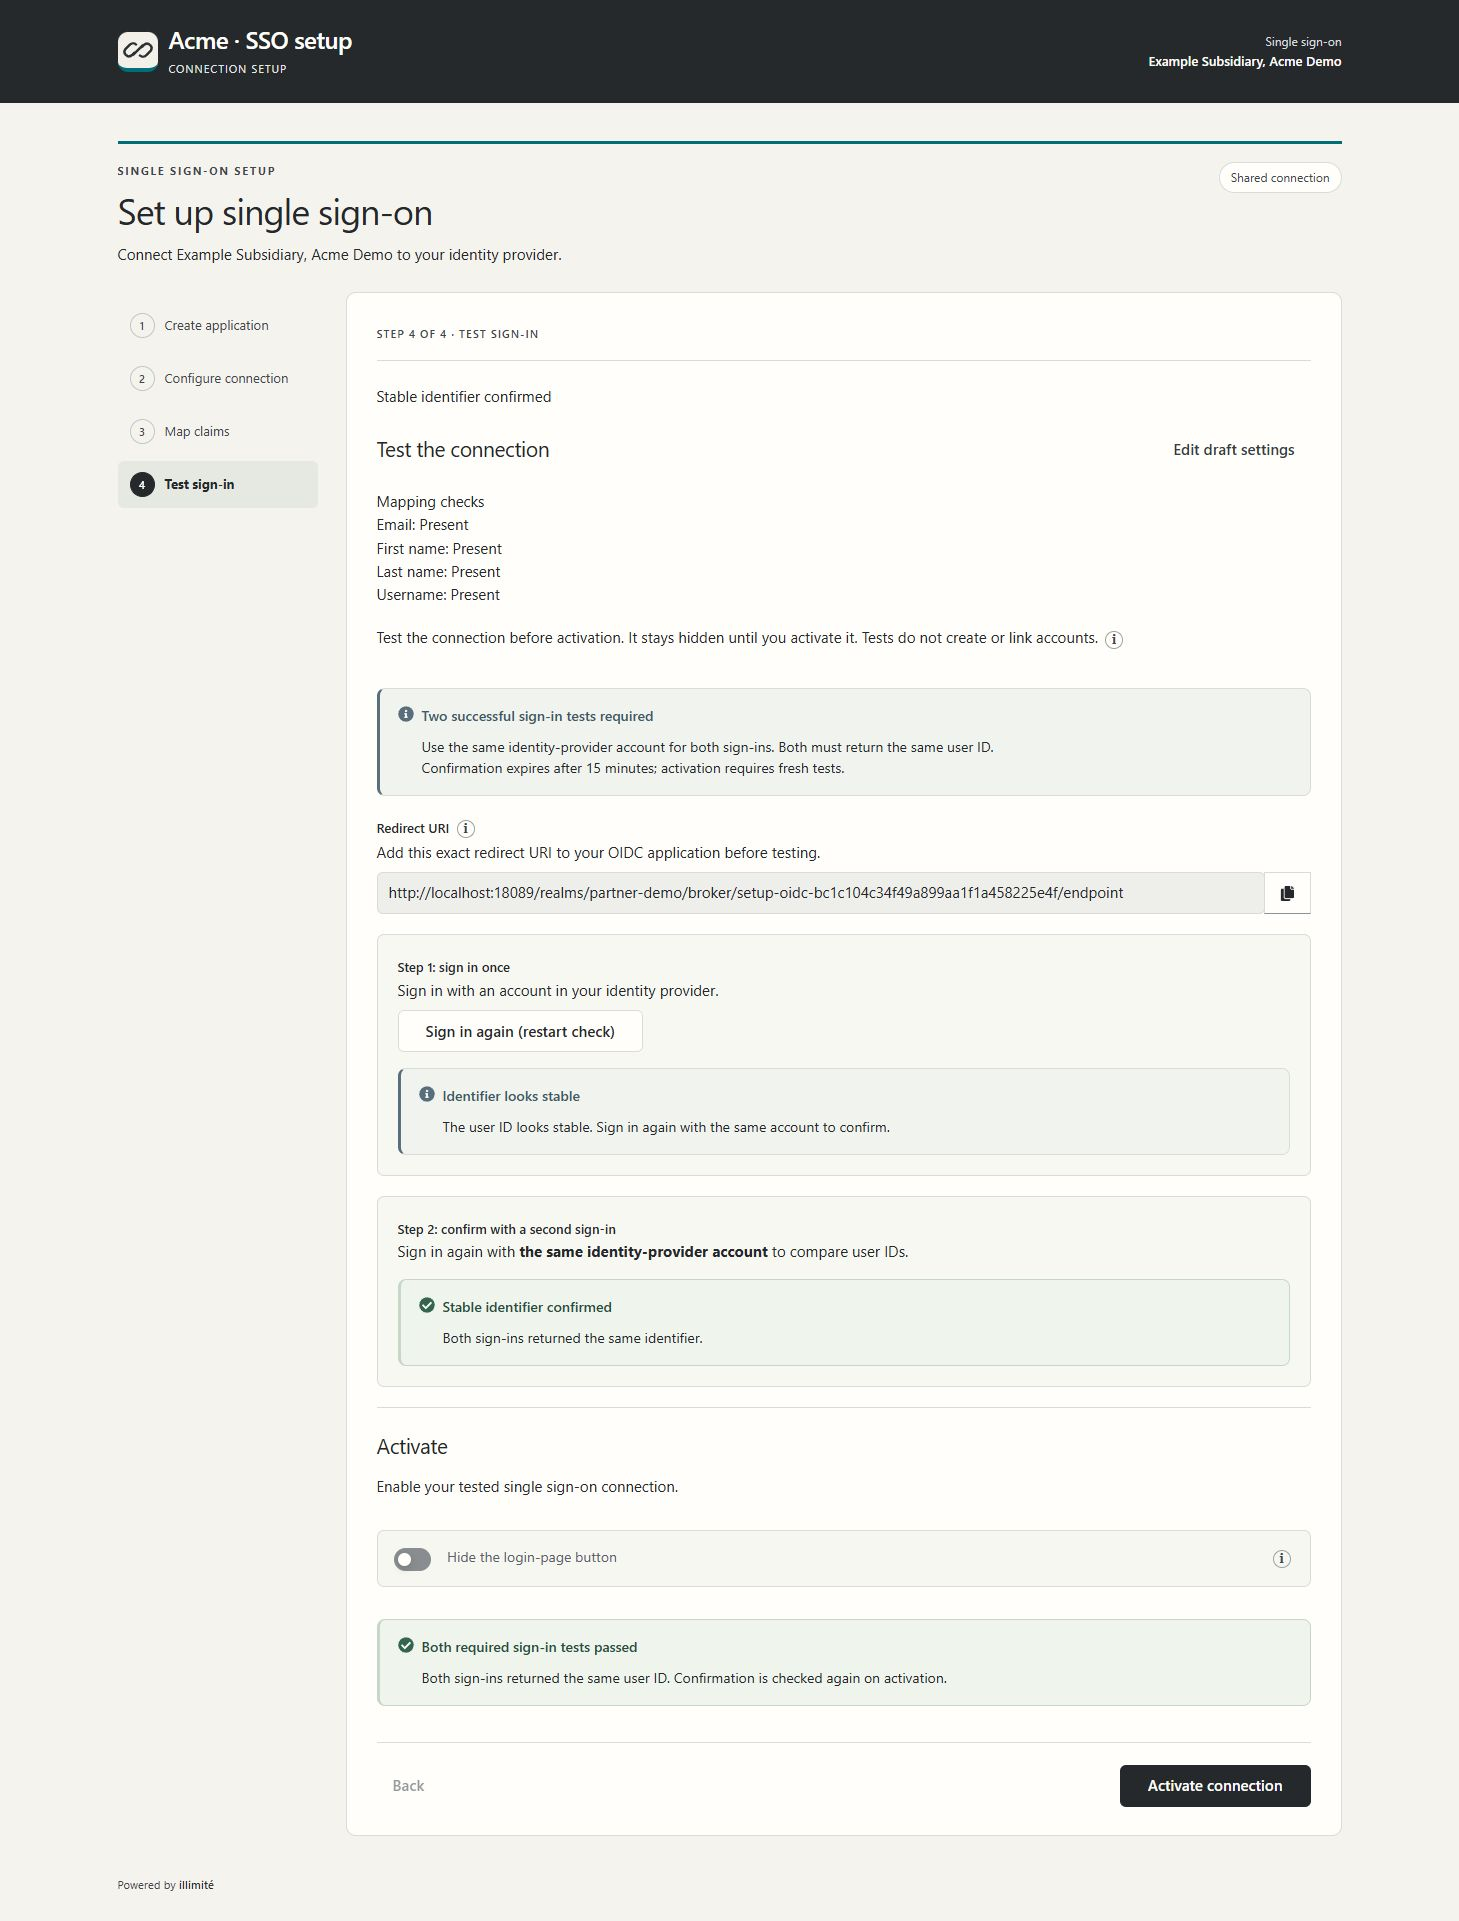
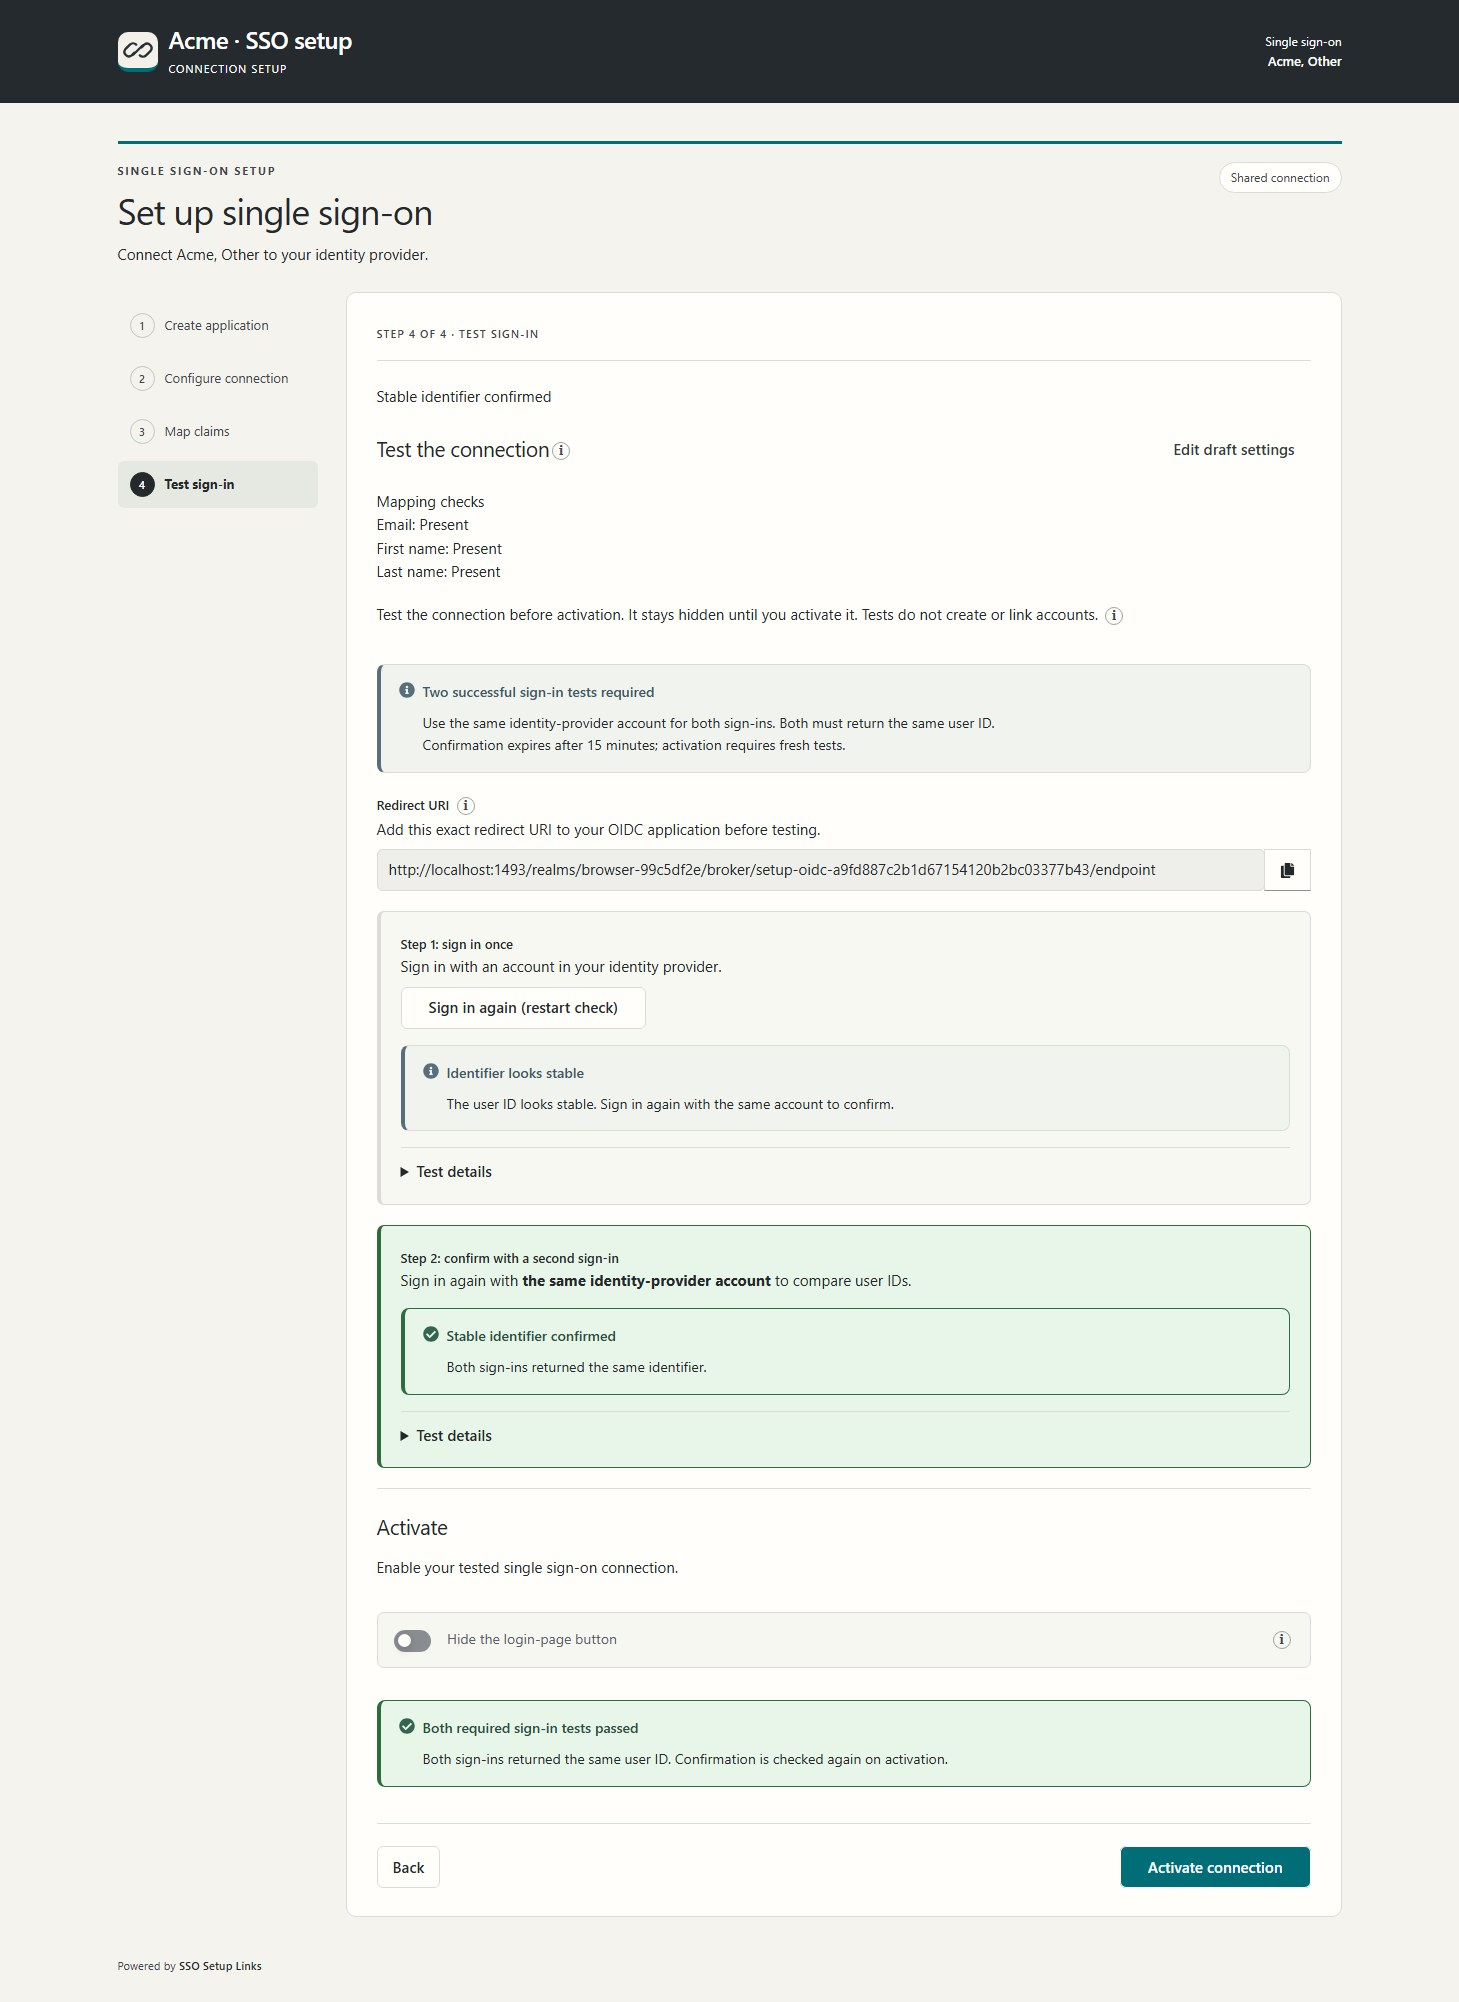
Update SSO walkthrough test details and supported host

diff --git a/keycloak-sso/index.html b/keycloak-sso/index.html
@@ -150,9 +150,9 @@
           <div class="stage-copy">
             <p class="role-label"><span aria-hidden="true">●</span> Customer's IdP administrator</p>
             <h3 id="test-heading">Confirm one stable identity.</h3>
-            <p>Sign in twice with the same identity-provider account. Both tests must return the same stable account ID; the second test asks for fresh authentication.</p>
-            <p>A different account or changing ID fails the comparison. The same test pair checks the connection when several organizations share it.</p>
+            <p>When two tests are required, sign in twice with the same identity-provider account. Both must return the same user ID; the second asks for fresh authentication. This compares returned identities, not how the provider authenticated the person.</p>
             <p><strong>4. Test sign-in.</strong> Run the first test, then the second when required. A different account or missing required claim is explained on this page. Correct the settings or restart the check, then test again. Closing the sign-in window lets you retry.</p>
+            <p>Open <strong>Test details</strong> under either result to inspect the user ID and available verified OIDC claims and UserInfo, or SAML NameID and attributes, including failed claim validation. Tokens and credentials are hidden. Preview size limits can shorten values or omit claims. Details expire after 15 minutes and stay out of activity logs and notifications.</p>
             <p><strong>Back</strong> preserves edits while you review earlier steps. <strong>Cancel editing</strong> restores the saved draft. Saving changes clears earlier test results. Complete the tests required by the invitation before activation.</p>
             <p>A <strong>draft</strong> is the saved test connection. Activation makes it live; an update keeps the current connection in use until you apply the tested changes.</p>
             <a class="text-link supporting-link" href="assets/test-sign-in-current.jpg" data-enlarge data-caption="Example provider — fresh sign-in by the same account" target="_blank" rel="noopener">See the sign-in window <span aria-hidden="true">↗</span></a>
@@ -161,13 +161,13 @@
           </div>
           <div class="protocol-screens">
             <figure class="product-screen" data-protocol="oidc">
-              <div class="screen-toolbar"><span>Customer wizard <span aria-hidden="true">/</span> OIDC test results</span><a href="assets/oidc-tests-current.jpg" class="enlarge-link" data-enlarge data-caption="OIDC — matching sign-ins and activation on the test screen" target="_blank" rel="noopener">View full screenshot <span aria-hidden="true">↗</span></a></div>
-              <div class="screen-scroll"><img src="assets/oidc-tests-current.jpg" width="1459" height="1921" alt="Two successful OIDC sign-ins with mapping checks and a separate activation section on the same test page." loading="lazy"></div>
+              <div class="screen-toolbar"><span>Customer wizard <span aria-hidden="true">/</span> OIDC test results</span><a href="assets/oidc-tests-current.jpg?v=20261106-details" class="enlarge-link" data-enlarge data-caption="OIDC — matching sign-ins, Test details and activation" target="_blank" rel="noopener">View full screenshot <span aria-hidden="true">↗</span></a></div>
+              <div class="screen-scroll"><img src="assets/oidc-tests-current.jpg?v=20261106-details" width="1459" height="2002" alt="Two successful OIDC sign-ins, expandable Test details under each result, and activation on the same page." loading="lazy"></div>
               <figcaption>Two successful sign-in tests · OIDC</figcaption>
             </figure>
             <figure class="product-screen" data-protocol="saml">
-              <div class="screen-toolbar"><span>Customer wizard <span aria-hidden="true">/</span> SAML test results</span><a href="assets/saml-tests-current.jpg" class="enlarge-link" data-enlarge data-caption="SAML — matching sign-ins and activation on the test screen" target="_blank" rel="noopener">View full screenshot <span aria-hidden="true">↗</span></a></div>
-              <div class="screen-scroll"><img src="assets/saml-tests-current.jpg" width="1459" height="2033" alt="Two successful SAML sign-ins with a confirmed user identifier and activation available on the test page." loading="lazy"></div>
+              <div class="screen-toolbar"><span>Customer wizard <span aria-hidden="true">/</span> SAML test results</span><a href="assets/saml-tests-current.jpg?v=20261106-details" class="enlarge-link" data-enlarge data-caption="SAML — matching sign-ins, Test details and activation" target="_blank" rel="noopener">View full screenshot <span aria-hidden="true">↗</span></a></div>
+              <div class="screen-scroll"><img src="assets/saml-tests-current.jpg?v=20261106-details" width="1459" height="2114" alt="Two successful SAML sign-ins with a confirmed user ID, expandable Test details, and activation available." loading="lazy"></div>
               <figcaption>Two successful sign-in tests · SAML</figcaption>
             </figure>
           </div>
@@ -282,6 +282,7 @@
 
     <section class="shell section-space" id="api" aria-labelledby="api-heading">
       <div class="section-heading"><p class="eyebrow">For your backend</p><h2 id="api-heading">The same scoped invitation.<br>A small API request.</h2><p>The realm’s name goes in the URL; native organization IDs go in the JSON body. Use a Keycloak bearer token with permission for every affected organization.</p></div>
+      <p>On Keycloak 26.8.2, add the built-in <code>kc-admin-api</code> client scope to your backend client as a default scope, or request it as an optional scope when obtaining the token. It supplies the required Admin API audience; it grants no permissions. Missing scope or audience returns HTTP 401.</p>
       <pre class="api-code"><code>POST https://YOUR-KEYCLOAK/admin/realms/partner-demo/idp-setup-links
 Authorization: Bearer &lt;access-token&gt;
 Content-Type: application/json</code></pre>
@@ -300,6 +301,7 @@ Content-Type: application/json</code></pre>
   "targetIdentityProviderId": "&lt;immutable-connection-id&gt;"
 }</code></pre>
           <p>Use the connection’s immutable ID, not its name. Omit organization fields: the server derives and checks all its existing associations.</p>
+          <p>Issuing updates also requires native <code>manage-identity-providers</code> authority unless the connection permits delegated updates. You must have authority over every linked organization.</p>
         </article>
       </div>
       <div class="api-values" aria-labelledby="api-values-heading">
@@ -325,7 +327,7 @@ Content-Type: application/json</code></pre>
         <dl class="api-fields">
           <div><dt><code>expirationSeconds</code></dt><dd>Integer lifetime in seconds, within the profile’s limit. Omit for the configured default.</dd></div>
           <div><dt><code>requireTwoSuccessfulTests</code></dt><dd>Boolean. <code>true</code> requires two matching sign-ins; it cannot weaken a profile’s requirement.</dd></div>
-          <div><dt><code>profileId</code> / <code>profileRevision</code></dt><dd>Select an enabled profile and optionally its latest enabled revision. Omit both for the configured default or standard rules.</dd></div>
+          <div><dt><code>profileId</code> / <code>profileRevision</code></dt><dd>Select an enabled profile and optionally its latest enabled revision. Omit both for the realm default, then the instance default, then standard rules.</dd></div>
         </dl>
         <p>For a shared connection, replace <code>organizationId</code> with <code>organizationIds</code>. No organization domain is required.</p>
         <p>Optional settings can narrow the profile’s rules, never weaken them.</p>
@@ -351,7 +353,7 @@ Content-Type: application/json
 
     <section class="installation-section section-space" id="installation" aria-labelledby="installation-heading">
       <div class="shell installation-grid">
-        <div class="section-heading"><p class="eyebrow">Installation footprint</p><h2 id="installation-heading">One provider JAR.<br>Your existing Keycloak.</h2><p>Both interfaces ship with the extension. No separate frontend service, plugin database or runtime Node installation is required.</p><p class="baseline-label">Tested baseline <strong>Keycloak 26.8.1</strong></p></div>
+        <div class="section-heading"><p class="eyebrow">Installation footprint</p><h2 id="installation-heading">One provider JAR.<br>Your existing Keycloak.</h2><p>Both interfaces ship with the extension. No separate frontend service, plugin database or runtime Node installation is required.</p><p class="baseline-label">Tested baseline <strong>Keycloak 26.8.2</strong></p></div>
         <div class="install-details">
           <ol class="install-list">
             <li><span>01</span><div><h3>Add the extension to your server image.</h3><p>Place the JAR in Keycloak's <code>providers/</code> directory, then run <code>bin/kc.sh build</code> before starting the optimized server.</p></div></li>
@@ -360,13 +362,15 @@ Content-Type: application/json
           </ol>
           <div class="url-example"><span>Owner panel URL pattern</span><code>https://YOUR-KEYCLOAK/realms/master/idp-setup/admin</code></div>
           <p class="install-footnote">The JAR adds its own metadata tables through Keycloak's existing database connection. Owner-managed setup profiles and permitted branding live in the panel; infrastructure secrets and server settings remain deployment configuration.</p>
+          <p class="install-footnote">Normal organization sign-in can require Keycloak email verification; configure native realm SMTP when needed. Setup tests do not create users or send verification emails.</p>
+          <p class="install-footnote">Keep tracing disabled on this baseline because of the host's <a href="https://github.com/advisories/GHSA-ccrj-gw8r-854m">OpenTelemetry advisory</a>. Qualify a patched host before enabling it.</p>
         </div>
       </div>
     </section>
 
   </main>
 
-  <footer class="site-footer shell"><div><span class="footer-wordmark">SSO Setup Links</span><p>A Keycloak extension by illimité.</p></div><p>Development preview · 2 November 2026<br>Real interfaces. Example data.</p></footer>
+  <footer class="site-footer shell"><div><span class="footer-wordmark">SSO Setup Links</span><p>A Keycloak extension by illimité.</p></div><p>Development preview · 6 November 2026<br>Real interfaces. Example data.</p></footer>
 
   <dialog class="image-dialog" aria-labelledby="image-dialog-title" data-image-dialog>
     <div class="dialog-toolbar"><h2 id="image-dialog-title">Product screenshot</h2><button class="button button-secondary" type="button" data-close-image autofocus>Close <span aria-hidden="true">×</span></button></div>
